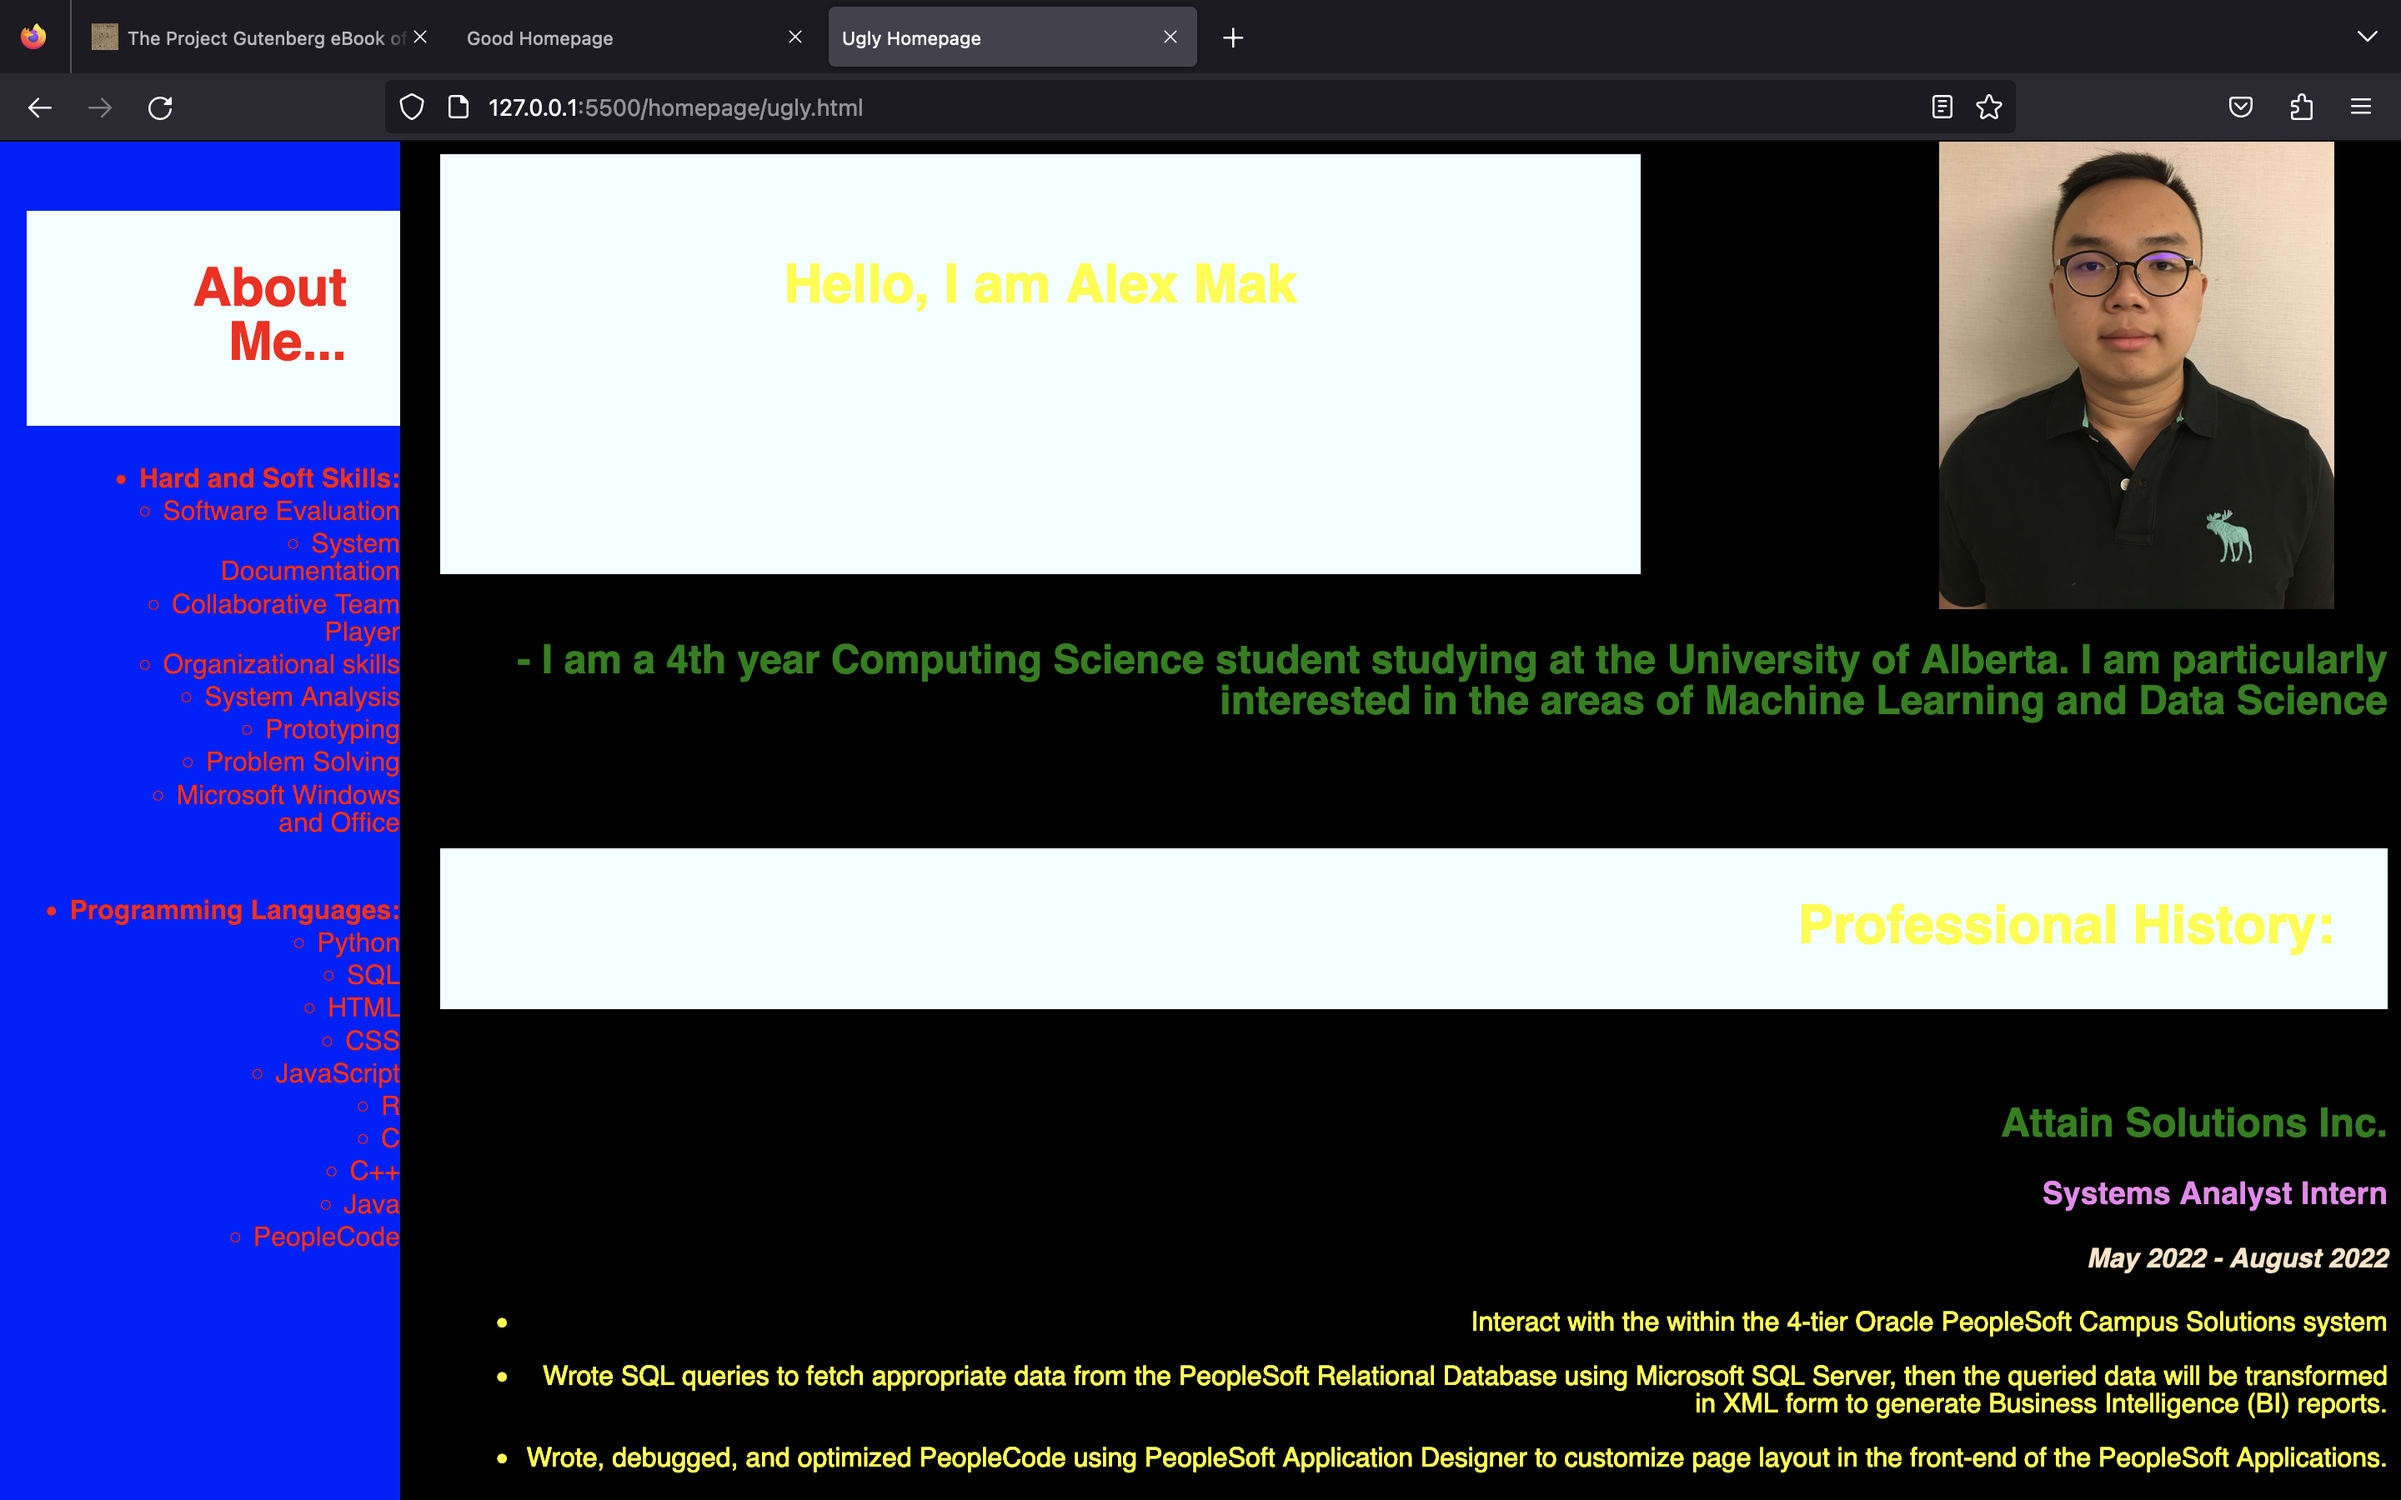
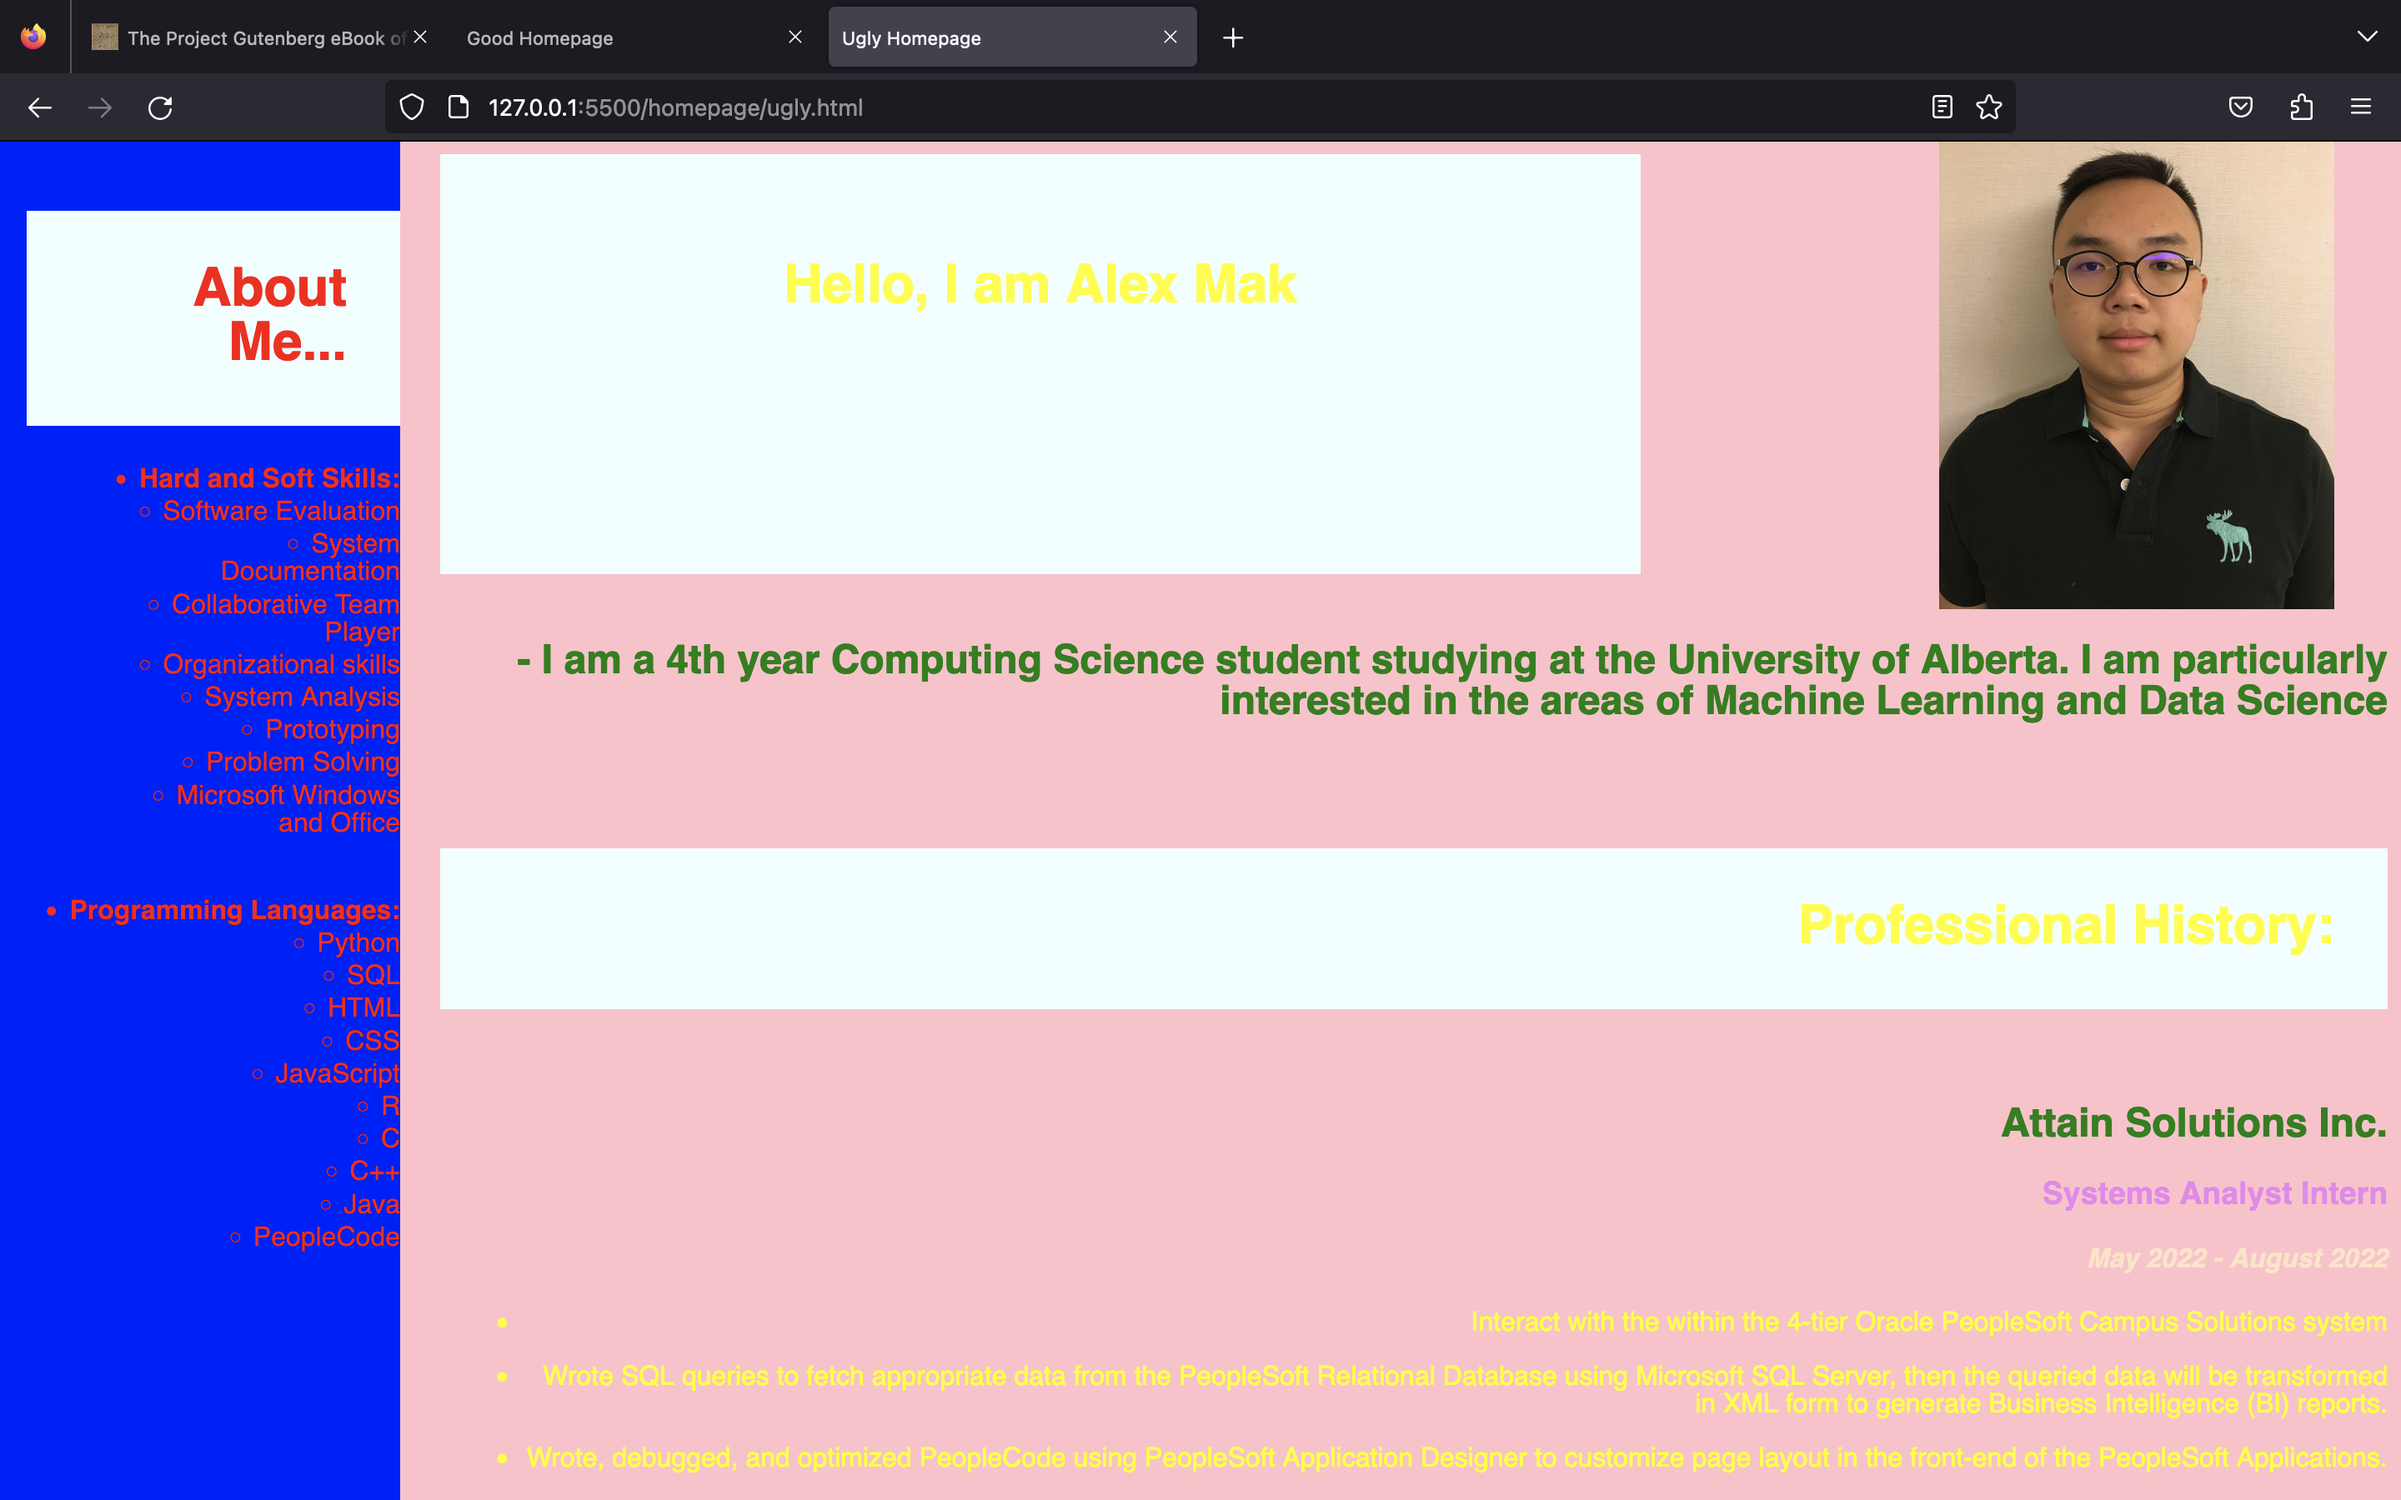
last commit

diff --git a/homepage/badstyle.css b/homepage/badstyle.css
@@ -14,7 +14,7 @@
 
 body {
     color: yellow;
-    background-color: black;
+    background-color: pink;
     font-family: sans-serif, Arial, Helvetica, sans-serif;
     text-align: right;
 }
